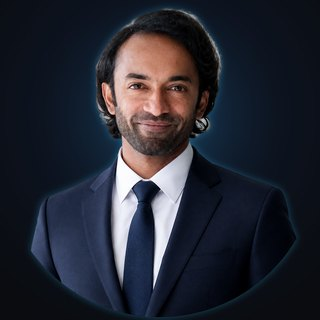
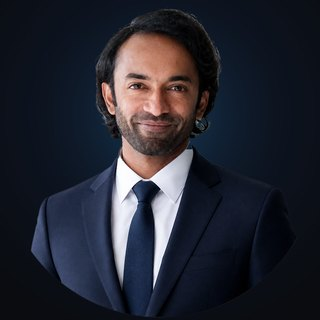
Founder photo: remove the grey studio background left in the hair (#47)
Re-cut the About-page portrait: studio grey taken out of hair-edge pixels, grey between strands faded where surrounded by hair (skin, beard and shirt untouched), edge glow removed. Service worker version bumped.

Claude-Session: https://claude.ai/code/session_0186QiKS3FRVB56Pe9ZPWFzi

diff --git a/sw.js b/sw.js
@@ -7,7 +7,7 @@
  * - Cross-origin requests (ads, analytics, Google Fonts) are never cached
  *   or touched; they pass straight through.
  * Nothing here reads request bodies or tool input. */
-var VERSION = 'lb-2026-11-18';
+var VERSION = 'lb-2026-11-18b';
 var SHELL = ['./', 'index.html', 'offline.html', 'css/base.css', 'css/tool.css', 'css/article.css', 'js/kernel.js', 'js/shared.js', 'js/vendor/lucide.min.js', 'main.js', 'layerbit-logo.png', 'icon-192.png', 'icon-512.png', 'manifest.json'];
 
 self.addEventListener('install', function (e) {
